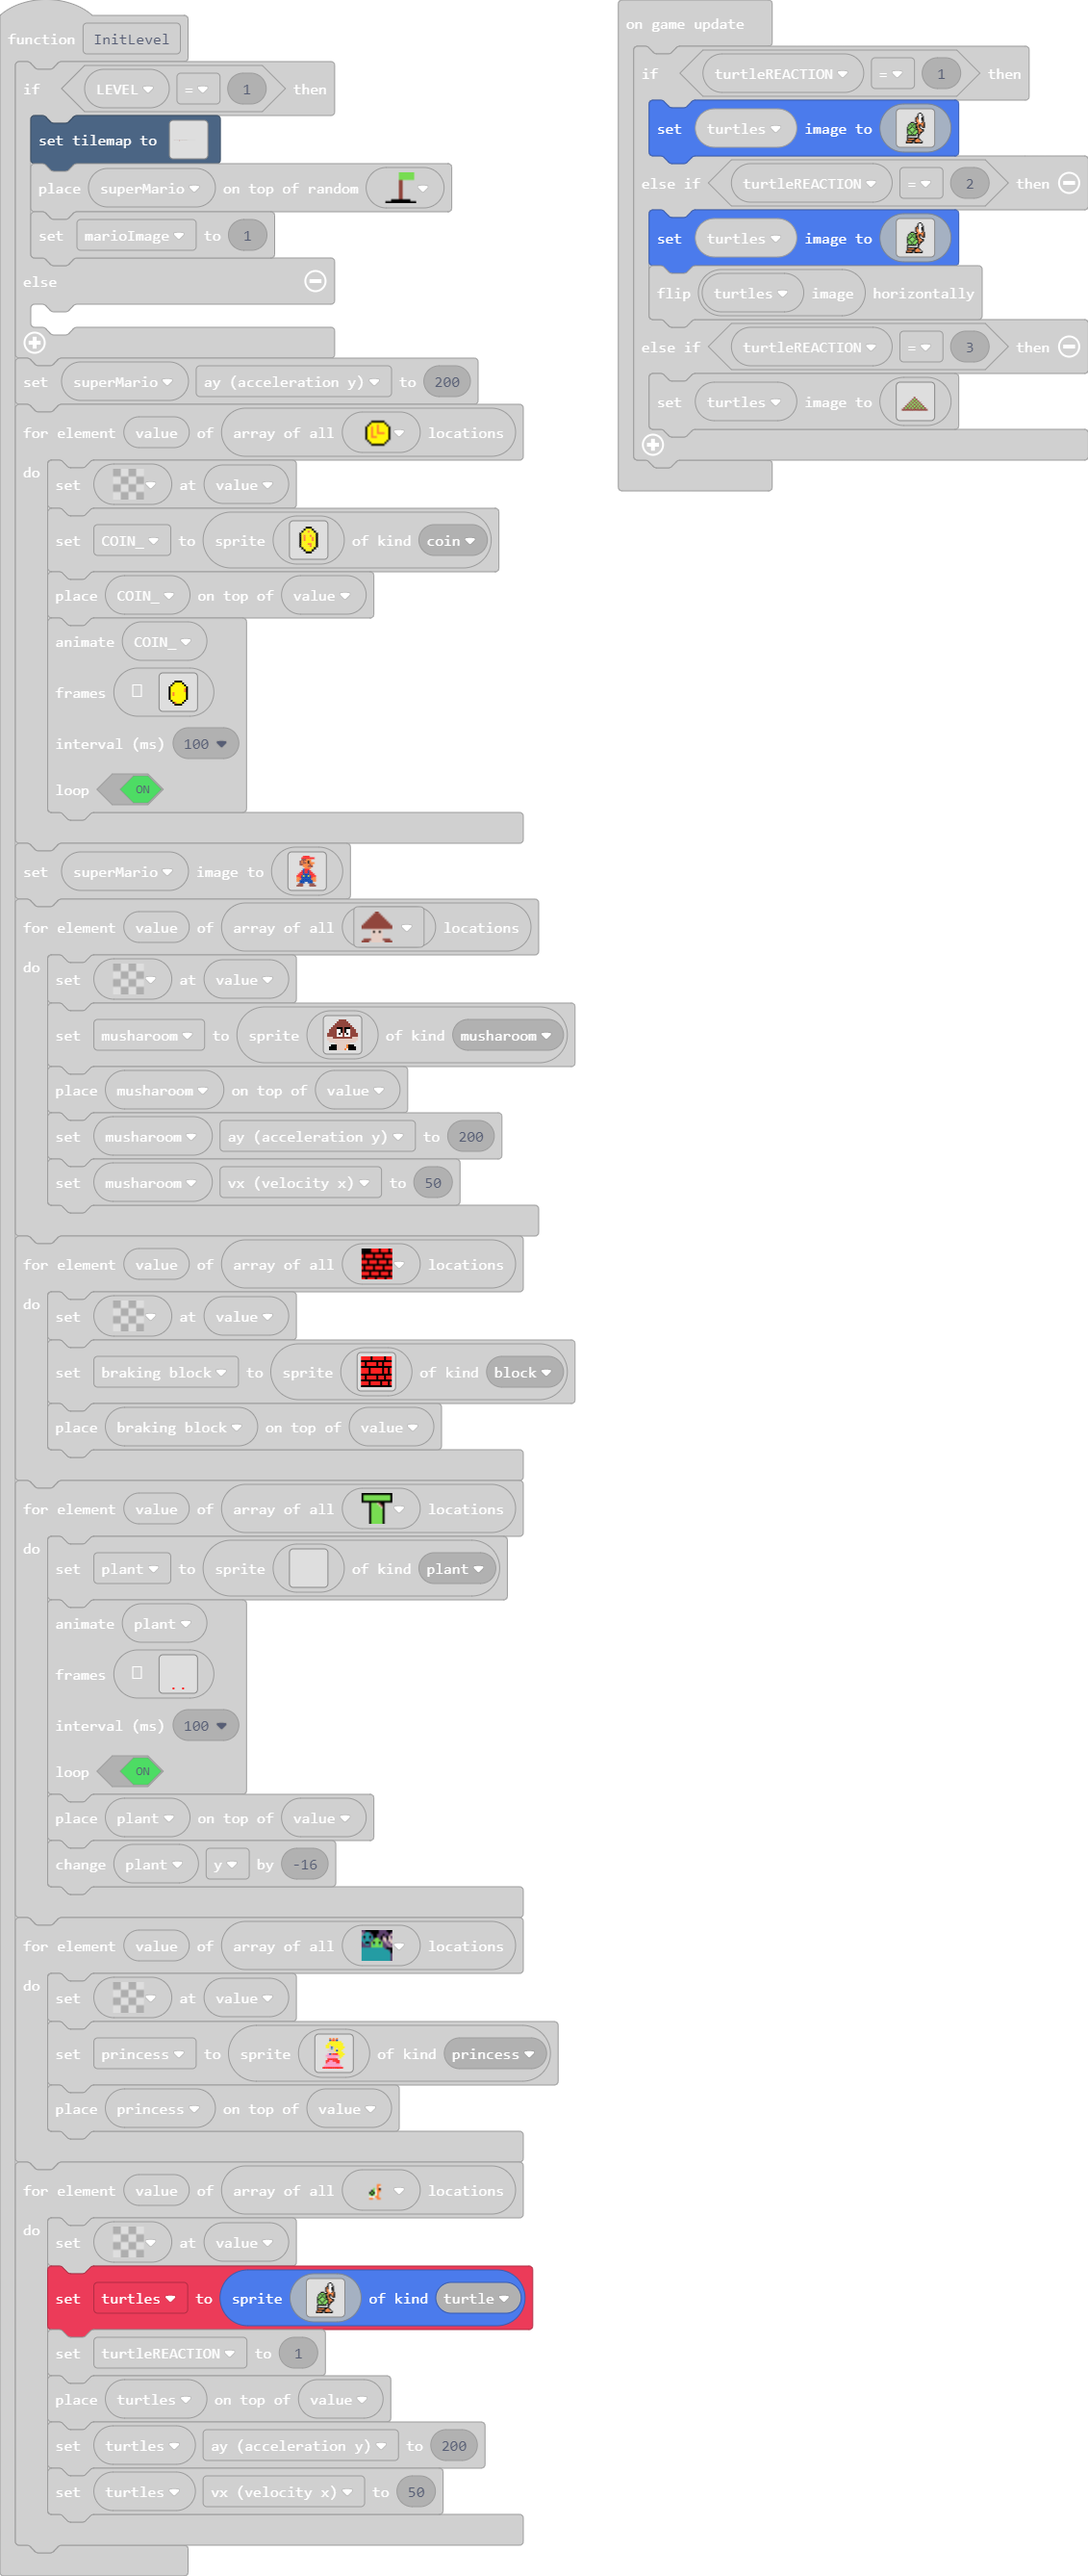
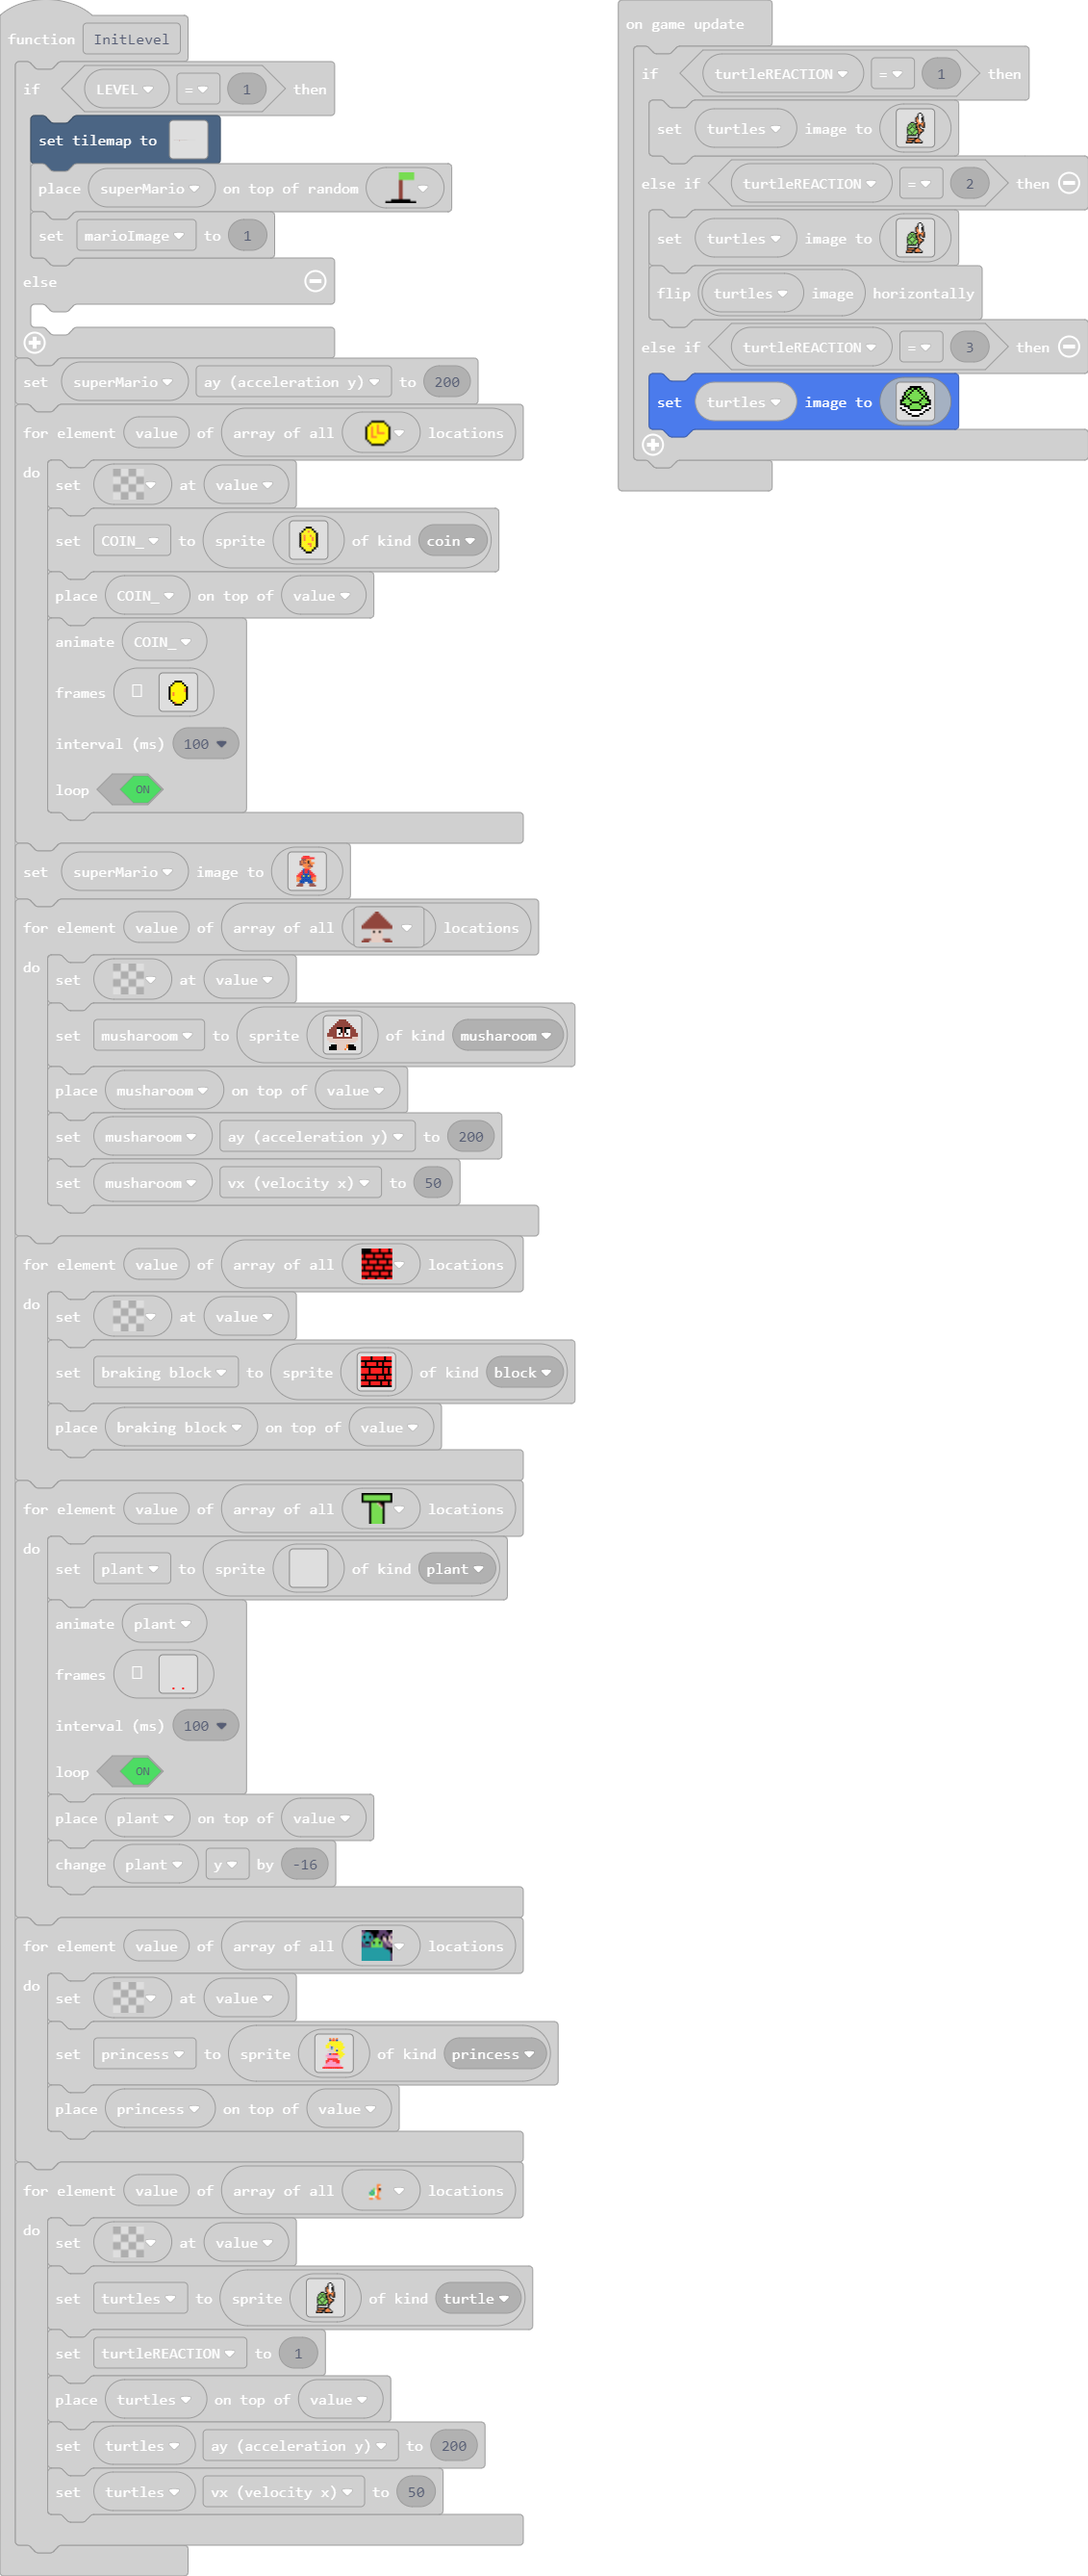
Update main.blocks, main.ts

Changed region(s): [[0.588, 0.031, 0.8974, 0.1861], [0.0309, 0.8685, 0.4951, 0.9305]]

diff --git a/main.ts b/main.ts
@@ -211,9 +211,9 @@ f f f f f f f f f f f f f f f f
 . . . . . . . . 4 4 . . . . . . 
 . . . . . . . . 4 1 . . . . . . 
 . . . . . . 7 . 4 f . . . . . . 
-. . . . . f 7 1 4 4 . . . . . . 
-. . . . f 7 f 1 4 . . . . . . . 
-. . . . 7 f 7 1 4 . . . . . . . 
+. . . . . 6 7 1 4 4 . . . . . . 
+. . . . 6 7 6 1 4 . . . . . . . 
+. . . . 7 6 7 1 4 . . . . . . . 
 . . . . 1 1 1 4 4 . . . . . . . 
 . . . . 4 4 . . 4 4 . . . . . . 
 . . . . . . . . . . . . . . . . 
@@ -348,7 +348,7 @@ scene.onHitWall(SpriteKind.turtle, function (sprite) {
 function InitLevel () {
     if (LEVEL == 1) {
         tiles.setTilemap(tiles.createTilemap(
[2 lines of base64/hex data omitted]
             img`
 . . . . . . . . . . . . . . . . . . . . . . . . . . . . . . . . . . . . . . . . . . . . . . . . . . . . . . . . . . . . . . . . . . . . . . . . . . . . . . . . . . . . . . . . . . . . . . . . . . . . . . . . . . . . . . . . . . . . . . . . . . . . . . . . . . . . . . . . . . . . . . . . . . . . . . . . . . . . . . . . . . . . . . . . . . . . . . . . . . . . . . . . . . . . . . . . . . . . . . . . 
 . . . . . . . . . . . . . . . . . . . . . . . . . . . . . . . . . . . . . . . . . . . . . . . . . . . . . . . . . . . . . . . . . . . . . . . . . . . . . . . . . . . . . . . . . . . . . . . . . . . . . . . . . . . . . . . . . . . . . . . . . . . . . . . . . . . . . . . . . . . . . . . . . . . . . . . . . . . . . . . . . . . . . . . . . . . . . . . . . . . . . . . . . . . . . . . . . . . . . . . . 
@@ -1691,17 +1691,22 @@ f f f f f f . f f f f f f f . .
         turtles.image.flipX()
     } else if (turtleREACTION == 3) {
         turtles.setImage(img`
-. . . . . . . . . . . . . . . . . . 
-. . . . . . . . . . . . . . . . . . 
-. . . . . . . . . . . . . . . . . . 
-. . . . . . . . e . . . . . . . . . 
-. . . . . . . e 7 e . . . . . . . . 
-. . . . . . e 7 e 7 e . . . . . . . 
-. . . . . e 7 e 7 e 7 e . . . . . . 
-. . . . e 7 e 7 e 7 e 7 e . . . . . 
-. . . e 7 e 7 e 7 e 7 e 7 e . . . . 
-. . e 7 e 7 e 7 e 7 e 7 e 7 e . . . 
-. e e e e e e e e e e e e e e e . . 
+. . . . . f f f f f f . . . . . 
+. . . . f f 7 f f 7 f f . . . . 
+. . . f 7 7 f 7 7 f 7 7 f . . . 
+. . f 7 7 f 7 7 7 7 f 7 7 f . . 
+. . f 7 f 7 7 7 7 7 7 f 7 f . . 
+. f 7 f 7 7 7 7 7 7 7 7 f 7 f . 
+. f f 7 f 7 7 7 7 7 7 f 7 f f . 
+f f 7 7 7 f 7 7 7 7 f 7 7 7 f f 
+f 7 7 7 7 7 f f f f 7 7 7 7 7 f 
+f f f 7 7 f 7 7 7 7 f 7 7 f f f 
+1 1 f f f 7 7 7 7 7 7 f f f 1 1 
+f 1 1 1 f 7 7 7 7 7 7 f 1 1 1 f 
+. f f 1 1 f f f f f f 1 1 f f . 
+. . . f 1 1 1 1 1 1 1 1 f . . . 
+. . . . f f 1 1 1 1 f f . . . . 
+. . . . . . f f f f . . . . . . 
 `)
     }
 })
